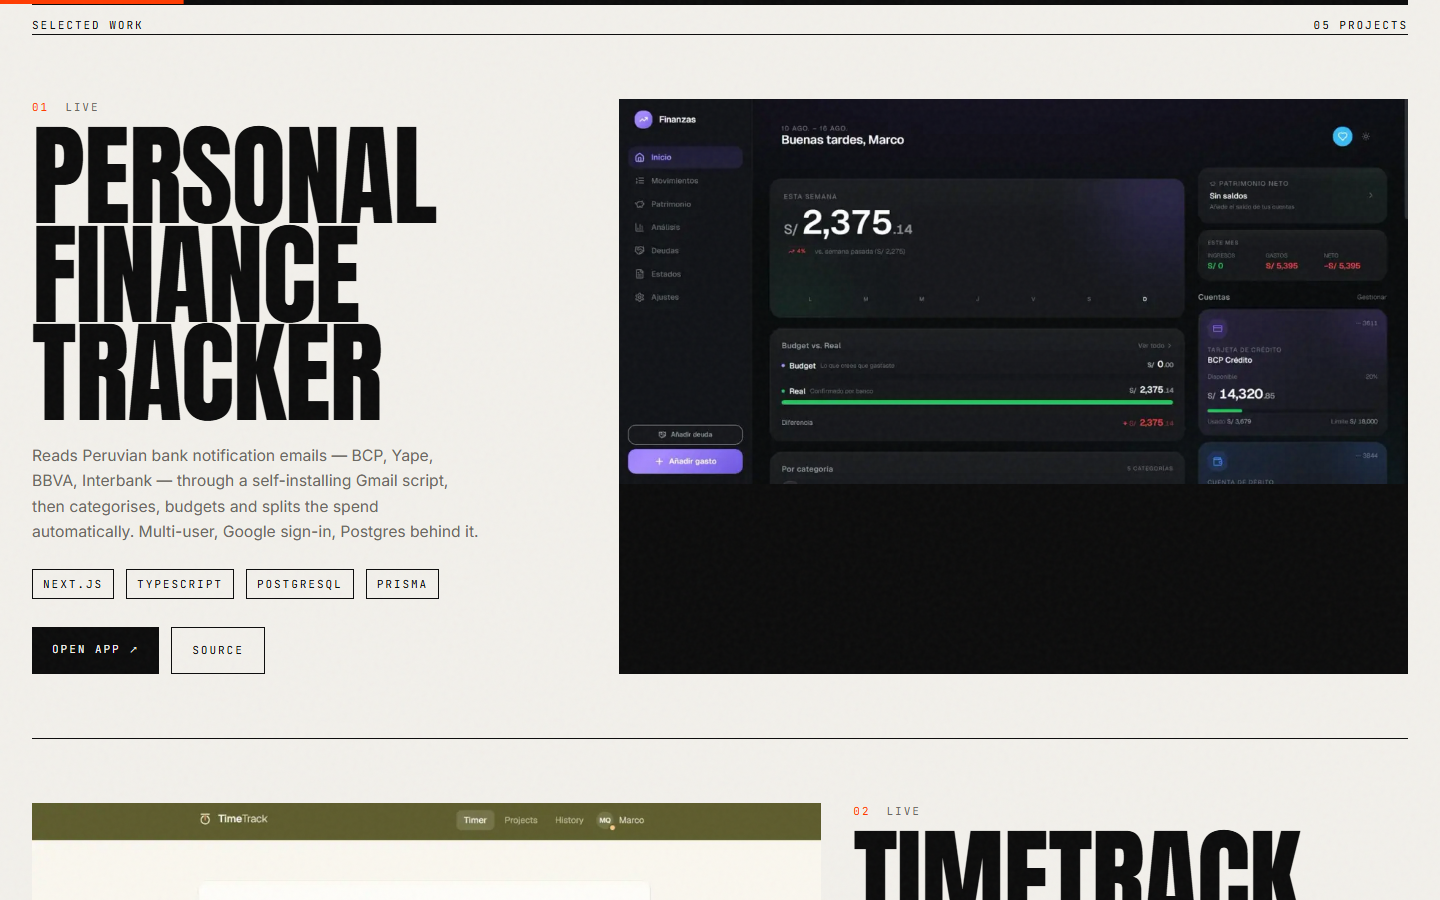
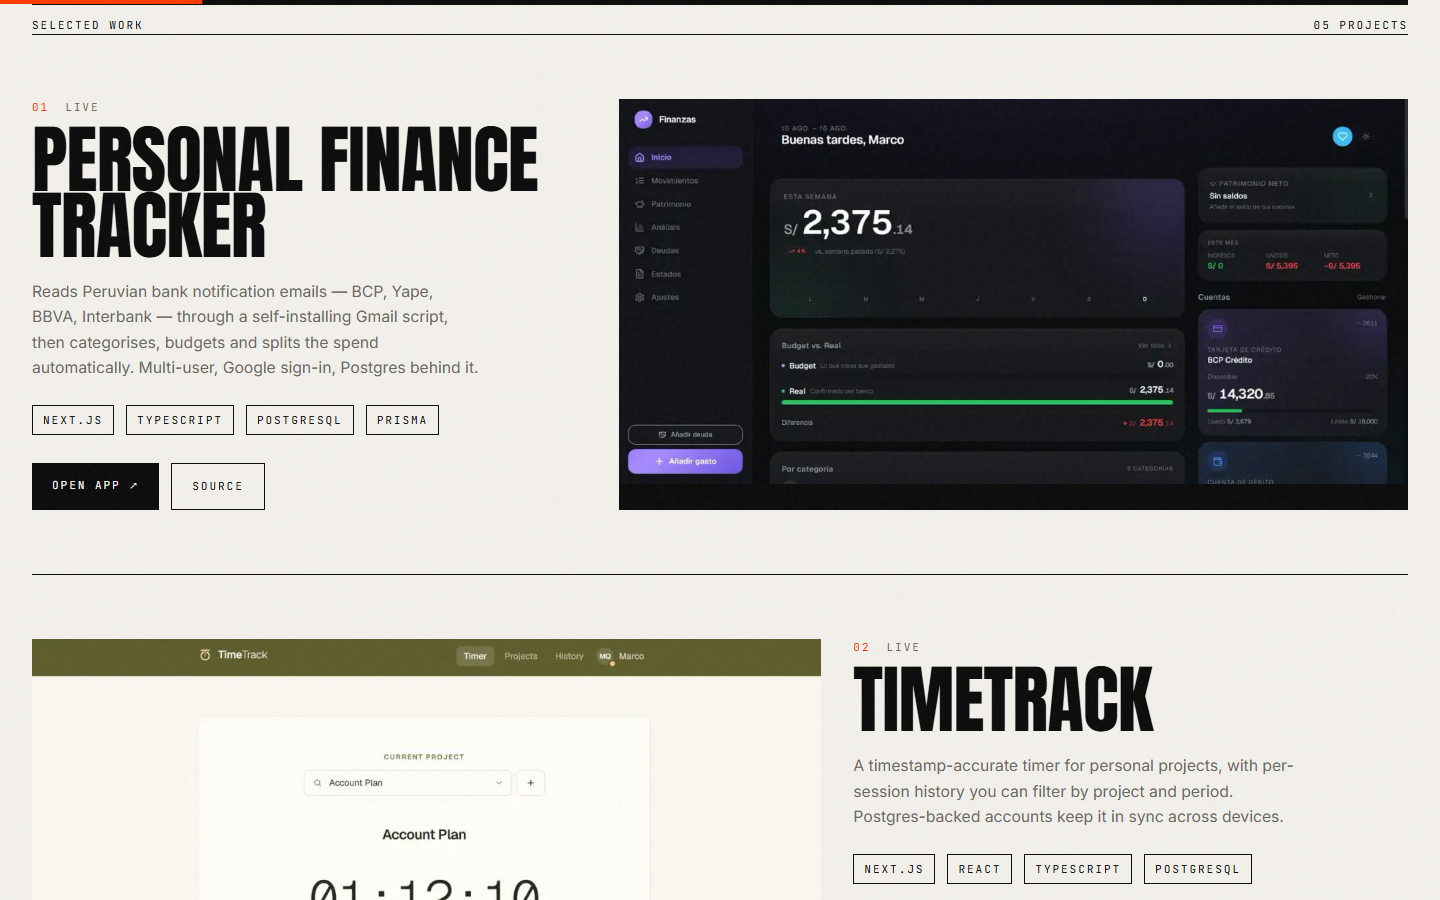
Shrink project titles; regroup skills so the labels stop restating the items
Project titles drop from 9vw/7rem to 5.2vw/4.75rem.

The skills taxonomy had a real problem: a group called 'Analyse' whose
contents were 'Technical Analysis' and 'Fundamental Analysis' tells a first-
time reader nothing - the label just restates the items. Renamed to 'Markets',
which names the domain and lets the items be the methods and tools used in it.

Also: Docker and GCP were filed under 'Automate' and 'Data', neither of which
is what they are. Both now sit under 'Automate & ship' alongside Vercel.
Salesforce stays there too - it is a platform he integrates with rather than
one he analyses data in.

Every item is one already claimed on the old site; only the grouping and the
labels changed.

diff --git a/src/lib/content.ts b/src/lib/content.ts
@@ -102,10 +102,22 @@ export const projects: Project[] = [
 ];
 
 export const skills = [
-  { group: "Build", items: ["TypeScript", "Next.js", "React", "Python", "HTML/CSS"] },
-  { group: "Data", items: ["SQL", "BigQuery", "GCP", "Power BI", "Excel"] },
-  { group: "Automate", items: ["n8n", "Google Apps Script", "Salesforce", "Docker"] },
-  { group: "Analyse", items: ["Technical Analysis", "Fundamental Analysis", "Bloomberg"] },
+  {
+    group: "Build",
+    items: ["TypeScript", "Next.js", "React", "Python", "HTML/CSS"],
+  },
+  {
+    group: "Data & BI",
+    items: ["SQL", "BigQuery", "Power BI", "Excel"],
+  },
+  {
+    group: "Automate & ship",
+    items: ["n8n", "Google Apps Script", "Salesforce", "Docker", "Vercel", "GCP"],
+  },
+  {
+    group: "Markets",
+    items: ["Technical analysis", "Fundamental analysis", "Bloomberg", "TradingView"],
+  },
 ];
 
 export const videos = [

diff --git a/src/app/globals.css b/src/app/globals.css
@@ -51,7 +51,7 @@
 
   .type-huge {
     font-family: var(--font-display);
-    font-size: clamp(2.4rem, 9vw, 7rem);
+    font-size: clamp(2rem, 5.2vw, 4.75rem);
     line-height: 0.88;
     letter-spacing: -0.01em;
     text-transform: uppercase;
